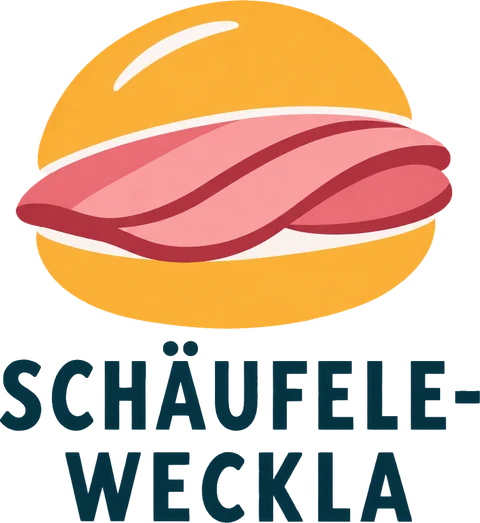
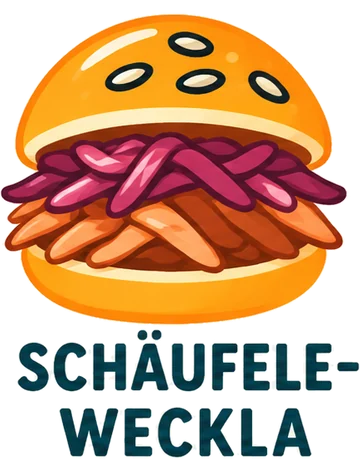
Startseite: neue Speisen-Illustrationen unter „Wein • Bier • Bissen“
Claude-Session: https://claude.ai/code/session_01ML14UvAViDyJv3Sy3Ftcsk

diff --git a/index.html b/index.html
@@ -9,7 +9,7 @@
   <link rel="icon" href="bilder/favicon.png?v=2" type="image/png">
   <link rel="apple-touch-icon" href="bilder/apple-touch-icon.png?v=2">
   <link rel="preload" href="fonts/interdisplay-black.woff" as="font" type="font/woff" crossorigin>
-  <link rel="stylesheet" href="css/style.css?v=16">
+  <link rel="stylesheet" href="css/style.css?v=17">
   <meta property="og:title" content="Glühschwein – Die gute Bude am Spielzeugmuseum">
   <meta property="og:description" content="Fränkisch. Ehrlich. Saufein. Hausgemachter Glühwein aus Frankenwein im Innenhof des Spielzeugmuseums Nürnberg.">
   <meta property="og:type" content="website">
@@ -79,10 +79,10 @@
       <p class="trenner">Wein<span class="dot">•</span>Bier<span class="dot">•</span>Bissen</p>
 
       <ul class="bissen">
-        <li><img src="bilder/schaeufele-weckla.webp" width="480" height="523" loading="lazy" alt="Schäufele-Weckla"></li>
-        <li><img src="bilder/leberkaes-weckla.webp" width="480" height="612" loading="lazy" alt="Leberkäs-Weckla"></li>
-        <li><img src="bilder/suppen.webp" width="480" height="512" loading="lazy" alt="Suppen"></li>
-        <li><img src="bilder/brotzeitplatten.webp" width="480" height="528" loading="lazy" alt="Brotzeitplatten"></li>
+        <li><img src="bilder/schaeufele-weckla.webp?v=2" width="360" height="460" loading="lazy" alt="Schäufele-Weckla"></li>
+        <li><img src="bilder/leberkaes-weckla.webp?v=2" width="342" height="460" loading="lazy" alt="Leberkäs-Weckla"></li>
+        <li><img src="bilder/suppen.webp?v=2" width="327" height="460" loading="lazy" alt="Suppen"></li>
+        <li><img src="bilder/brotzeitplatten.webp?v=2" width="480" height="460" loading="lazy" alt="Brotzeitplatten"></li>
       </ul>
     </div>
 

diff --git a/css/style.css b/css/style.css
@@ -180,7 +180,7 @@ p { margin: 0 0 1em; }
 .bissen { list-style: none; margin: 0; padding: 0; display: grid; grid-template-columns: repeat(4, 1fr); }
 .bissen li { text-align: center; padding: 0 14px; }
 .bissen li + li { border-left: 2px solid var(--farbe-navy); }
-.bissen img { width: 100%; height: clamp(150px, 19vw, 230px); object-fit: contain; object-position: center bottom; margin: 0 auto; }
+.bissen img { width: auto; max-width: 100%; height: clamp(140px, 19vw, 230px); object-fit: contain; object-position: center bottom; margin: 0 auto; }
 .bissen span { font-family: var(--schrift-ueberschrift); font-weight: 900; text-transform: uppercase; color: var(--farbe-navy); font-size: clamp(14px, 2vw, 20px); letter-spacing: .05em; line-height: 1.15; display: block; }
 @media (max-width: 640px) {
   .bissen { grid-template-columns: 1fr 1fr; row-gap: 28px; }

diff --git a/jobs/index.html b/jobs/index.html
@@ -8,7 +8,7 @@
   <meta name="theme-color" content="#164f55">
   <link rel="icon" href="../bilder/favicon.png?v=2" type="image/png">
   <link rel="apple-touch-icon" href="../bilder/apple-touch-icon.png?v=2">
-  <link rel="stylesheet" href="../css/style.css?v=16">
+  <link rel="stylesheet" href="../css/style.css?v=17">
   <meta property="og:title" content="Jobs im Glühschwein – mach mit!">
   <meta property="og:description" content="Saisonjob im Advent: Ausschank, Küche, Auf- und Abbau im Innenhof vom Spielzeugmuseum Nürnberg. Ab 18 – jetzt online bewerben!">
   <meta property="og:type" content="website">

diff --git a/datenschutz.html b/datenschutz.html
@@ -10,7 +10,7 @@
   <link rel="icon" href="bilder/favicon.png?v=2" type="image/png">
   <link rel="apple-touch-icon" href="bilder/apple-touch-icon.png?v=2">
   <link rel="preload" href="fonts/interdisplay-black.woff" as="font" type="font/woff" crossorigin>
-  <link rel="stylesheet" href="css/style.css?v=16">
+  <link rel="stylesheet" href="css/style.css?v=17">
 </head>
 <body>
 

diff --git a/impressum.html b/impressum.html
@@ -10,7 +10,7 @@
   <link rel="icon" href="bilder/favicon.png?v=2" type="image/png">
   <link rel="apple-touch-icon" href="bilder/apple-touch-icon.png?v=2">
   <link rel="preload" href="fonts/interdisplay-black.woff" as="font" type="font/woff" crossorigin>
-  <link rel="stylesheet" href="css/style.css?v=16">
+  <link rel="stylesheet" href="css/style.css?v=17">
 </head>
 <body>
 
